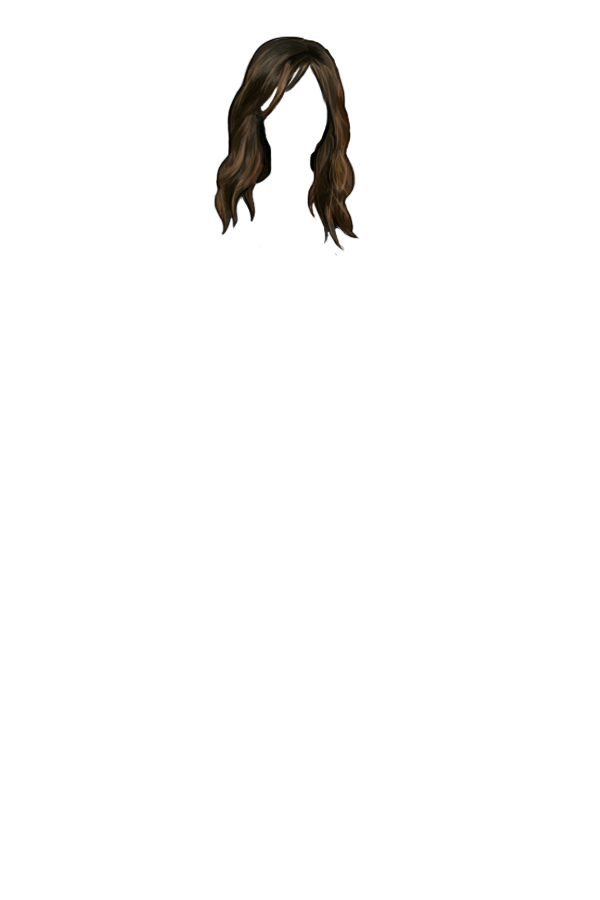
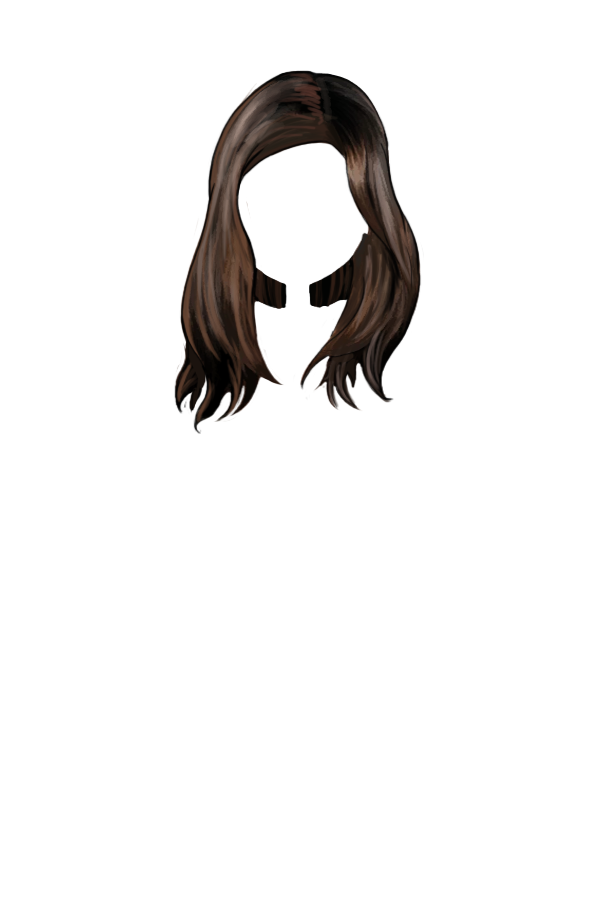
new images

Changed region(s): [[0.27, 0.0311, 0.72, 0.4667]]

diff --git a/web/language.js b/web/language.js
@@ -30,7 +30,7 @@ Blockly.Language.top1 = {
 };
 
 //-------------------------------------------------------------------------
-// Top2
+// Top2 - Wedding Dress
 //-------------------------------------------------------------------------
 Blockly.Language.top2 = {
   helpUrl: 'http://www.example.com/',
@@ -38,7 +38,7 @@ Blockly.Language.top2 = {
     this.setColour(330, .45, .65);
     this.appendValueInput("color")
         .setCheck([String, "var"])
-        .appendTitle("Casual top")
+        .appendTitle("Wedding dress")
     this.setPreviousStatement(true);
     this.setNextStatement(true);
     var thisBlock = this; 
@@ -591,14 +591,14 @@ Blockly.Language.shoes5 = {
 };
 
 //-------------------------------------------------------------------------
-// Hair 1 (Natural)
+// Hair 1 (brunette)
 //-------------------------------------------------------------------------
 Blockly.Language.hair1 = {
   helpUrl: 'http://www.example.com/',
   init: function() {
     this.setColour(330, .45, .65);
     this.appendDummyInput()
-    	.appendTitle("Natural look")
+    	.appendTitle("Brunette")
     this.setPreviousStatement(true);
     this.setNextStatement(true);
     var thisBlock = this; 
@@ -615,7 +615,7 @@ Blockly.Language.hair2 = {
   init: function() {
     this.setColour(330, .45, .65);
     this.appendDummyInput()
-    	.appendTitle("Blonde hair")
+    	.appendTitle("Blonde")
     this.setPreviousStatement(true);
     this.setNextStatement(true);
     var thisBlock = this; 
@@ -666,11 +666,27 @@ Blockly.Language.hair5 = {
   init: function() {
     this.setColour(330, .45, .65);
     this.appendDummyInput()
-    	.appendTitle("Short cut")
+    	.appendTitle("Redhead")
     this.setPreviousStatement(true);
     this.setNextStatement(true);
     var thisBlock = this; 
     this.setTooltip('hair5-');
+  }
+};
+
+//-------------------------------------------------------------------------
+// Hair 6 (6)
+//-------------------------------------------------------------------------
+Blockly.Language.hair6 = {
+  helpUrl: 'http://www.example.com/',
+  init: function() {
+    this.setColour(330, .45, .65);
+    this.appendDummyInput()
+    	.appendTitle("Curly")
+    this.setPreviousStatement(true);
+    this.setNextStatement(true);
+    var thisBlock = this; 
+    this.setTooltip('hair6-');
   }
 };
 
@@ -810,7 +826,7 @@ Blockly.Language.lime = {
   init: function() {
     this.setColour(76, .45, .65);
     this.appendDummyInput()
-        .appendTitle("lime");
+        .appendTitle("Green");
     this.setOutput(true, String);
     this.setTooltip('');
   },

diff --git a/web/toolbox.js b/web/toolbox.js
@@ -155,14 +155,14 @@ function getToolbox() {
                     '<block type="lime"></block> <block type="gold"></block>' ;
       toolbox7 += '</category> <category> </category>'; //close coloring
       
-      toolbox7 += '  <category name="+ Tops"> <block type="top1"></block> <block type="top4"></block> <block type="top5"></block> <block type="top6"> </block> <block type="top7"> </block> <block type="top8"> </block>';
+      toolbox7 += '  <category name="+ Tops"> <block type="top1"></block> <block type="top2"></block> <block type="top4"></block> <block type="top5"></block> <block type="top6"> </block> <block type="top7"> </block> <block type="top8"> </block>';
       toolbox7 += '</category> <category> </category>'; //close tops
       
       toolbox7 += '<category name="+ Bottoms"> <block type="bottom1"></block> <block type="bottom2"></block> <block type="bottom5"></block> <block type="bottom6"></block> <block type="bottom7"></block> <block type="bottom8"></block>';
       
       toolbox7 += '</category> <category> </category>'; //close bottoms
       
-      toolbox7 += '<category name="+ Hair"> <block type="hair1"></block> <block type="hair2"></block> <block type="hair3"></block> <block type="hair4"></block> <block type="hair5"></block>';
+      toolbox7 += '<category name="+ Hair"> <block type="hair1"></block> <block type="hair2"></block> <block type="hair3"></block> <block type="hair4"></block> <block type="hair5"></block> <block type="hair6"></block>';
       toolbox7 += '</category> <category> </category>'; //close hair
       
       toolbox7 += '<category name="+ Shoes"> <block type="shoes1"></block> <block type="shoes2"></block> <block type="shoes3"></block> <block type="shoes4"></block> <block type="shoes5"></block>';

diff --git a/web/rosie.js b/web/rosie.js
@@ -53,7 +53,7 @@ function logParse(type, comment) {
 	var COLORS = ['red', 'blue', 'gold', 'lime', 'black', 'pink', 'orange' , 'purple', 'grey'];
 	var Playing = false;
     
-	var HAIR_IMAGES = 6;
+	var HAIR_IMAGES = 7;
 	var TOP_IMAGES = 9;
 	var BOTTOM_IMAGES = 9;
 	var SHOE_IMAGES = 6;
@@ -655,16 +655,15 @@ Blockly.Tooltip.onMouseMove_ = function(e) {
  * Hide the tooltip.
  */
 Blockly.Tooltip.hide = function() {
+	var preview = document.getElementById('preview');
+  	preview.style.visibility = "hidden";
 	
 	var imgNode = document.getElementById(tipImg);
 	if (imgNode && tipImg != originalTop && tipImg != originalBottom && tipImg != originalHair && tipImg != originalShoes){
 		imgNode.style.visibility = "hidden";
 		imgNode.style.border = "none";
   		imgNode.style.background = "none";
-  		var preview = document.getElementById('preview');
-  		preview.style.visibility = "hidden";
-		
-	}
+  	}
 	
 	//restore original image (if any) after preview
 	imgNode = document.getElementById(tempImg);

diff --git a/web/dressup.html b/web/dressup.html
@@ -53,8 +53,6 @@
     <img scr="images/room.png" id="room" class="background">
     <img src="images/gym.png" id="gym" class="background">
     <img src="images/wedding.png" id="wedding" class="background">
-    <img src="images/restaurant.png" id="restaurant" class="background">
-    <img src="images/concert.png" id="concert" class="background">
     <img src="images/hot.png" id="hot" class="background">
     <img src="images/cold.png" id="cold" class="background">
     

diff --git a/web/generator.js b/web/generator.js
@@ -240,7 +240,10 @@ Blockly.JavaScript.hair5 = function() {
 	
 };
 
-
+Blockly.JavaScript.hair6 = function() {
+	return '[ "hair6-", "blue", ' + this.id + ', "any", "casual" ]';
+	
+};
 Blockly.JavaScript.set_color = function() {
 	var part = this.getTitleValue('part');
 	var color = Blockly.JavaScript.valueToCode(this, 'SET', Blockly.JavaScript.ORDER_NONE) || '0';
